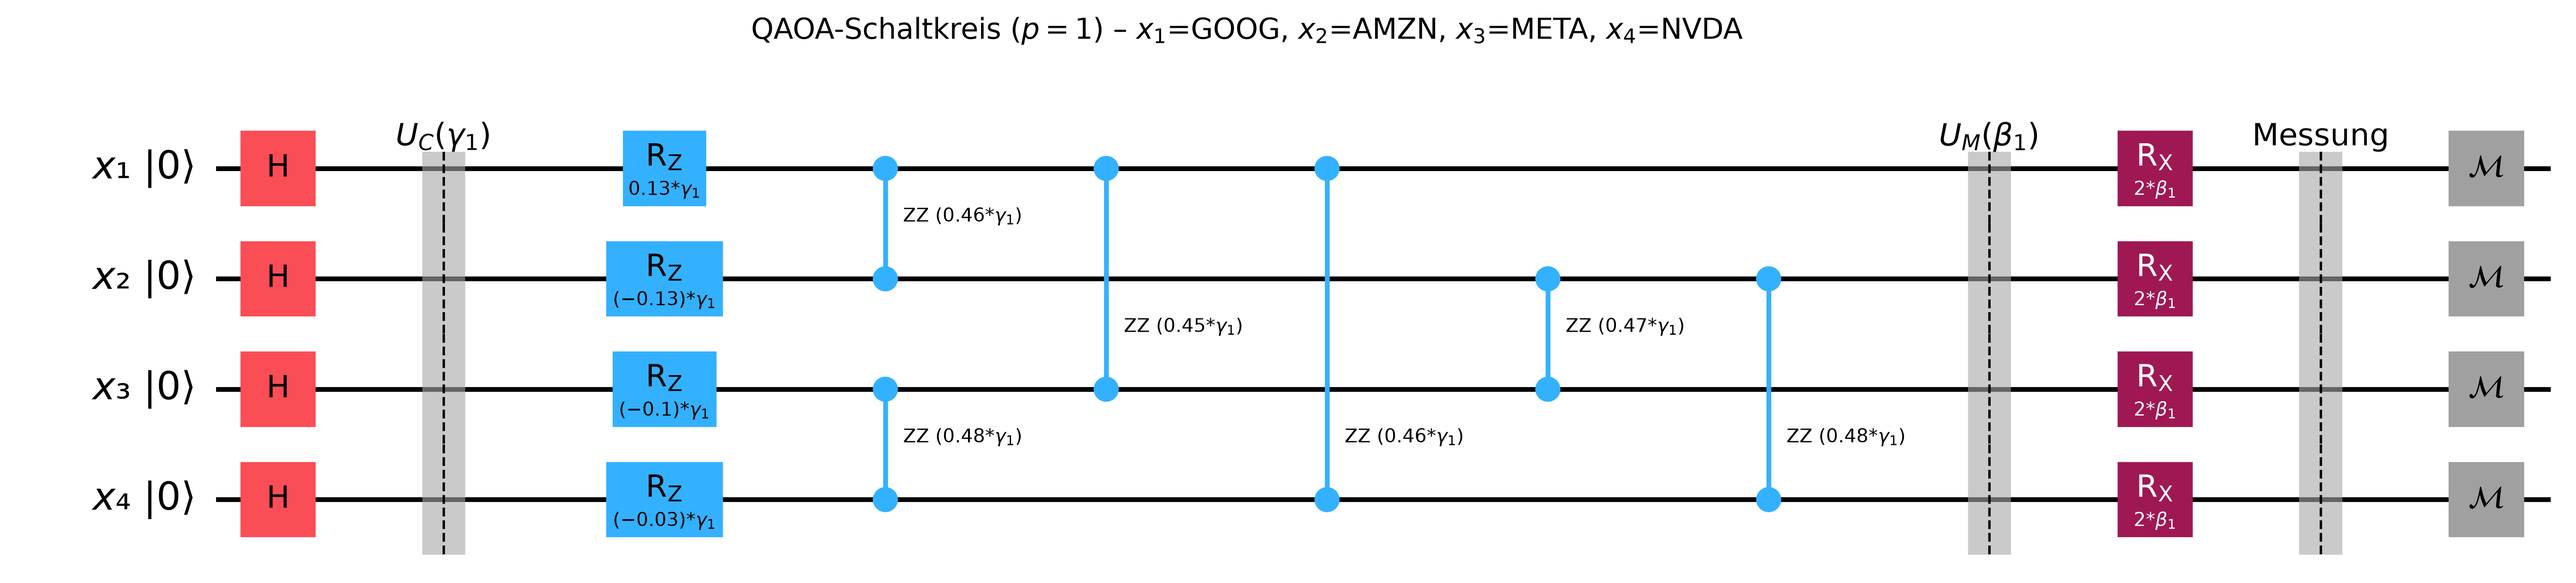
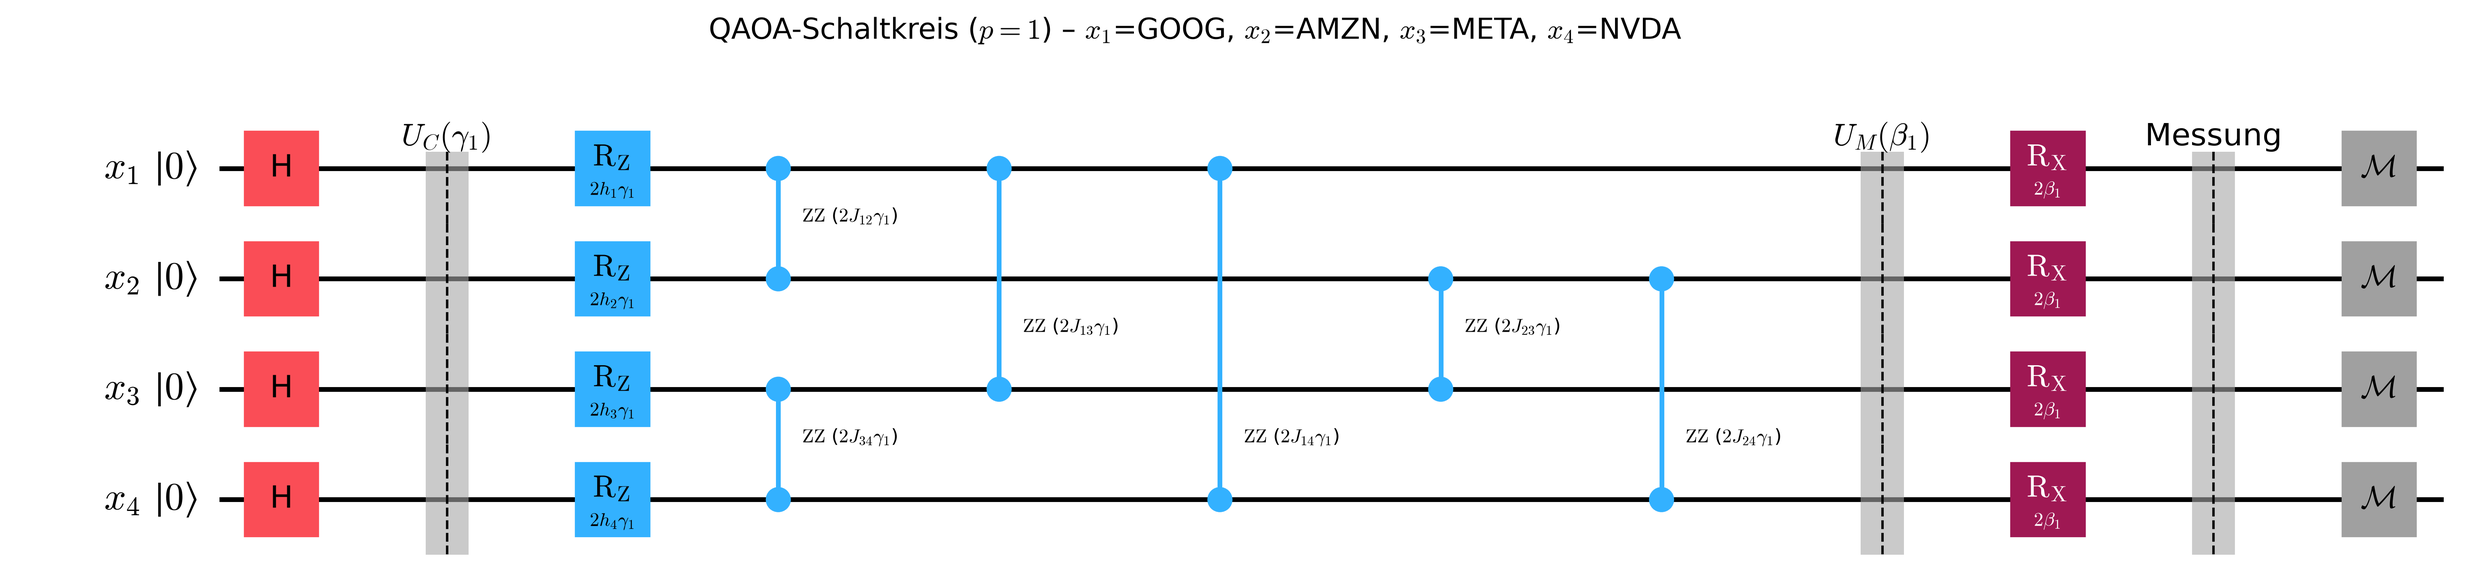
feat: enhance drawing_circuit with symbolic parameter and improve plot_circuit labels

diff --git a/src/02_portfolio_optimization.py b/src/02_portfolio_optimization.py
@@ -2,6 +2,7 @@
 
 import itertools
 import json
+import re
 import sys
 from dataclasses import asdict, dataclass
 from functools import cached_property
@@ -184,18 +185,19 @@ def sample(qaoa: QAOA, params, pf: Portfolio,
 
 
 def drawing_circuit(h_c: SparsePauliOp, reps: int,
-                    decimals: int | None = 2) -> QuantumCircuit:
+                    symbolic: bool = True) -> QuantumCircuit:
     """Gate-level QAOA circuit with labeled layers, for display only.
 
-    Same gates as qaoa_ansatz: Z_i -> Rz(2c·γ), Z_iZ_j -> Rzz(2c·γ), mixer Rx(2β).
-    Coefficients are rounded to `decimals` (None = exact, for checking).
+    Same gates as qaoa_ansatz for H_C = Σ h_i Z_i + Σ J_ij Z_i Z_j:
+    Z_i -> Rz(2h_i·γ), Z_iZ_j -> Rzz(2J_ij·γ), mixer Rx(2β).
+    symbolic=True labels the angles with h_i, J_ij (no numbers);
+    symbolic=False uses the exact coefficients (for checking against qaoa_ansatz).
     Measurements are drawn as "M" boxes without classical bits, so the drawer
     places them in one column (real measurements are always staggered).
     The cost terms are all diagonal and commute, so they are reordered to make
     the figure narrower: all Rz first, then the ZZ gates packed into as few
     columns as possible (e.g. ZZ(0,1) and ZZ(2,3) side by side).
     """
-    sub = str.maketrans("0123456789", "₀₁₂₃₄₅₆₇₈₉")
     terms = [(np.flatnonzero(pauli.z).tolist(), coeff)
              for pauli, coeff in zip(h_c.paulis, h_c.coeffs.real, strict=True)]
     singles = [t for t in terms if len(t[0]) == 1]
@@ -211,26 +213,34 @@ def drawing_circuit(h_c: SparsePauliOp, reps: int,
         col.append(t)
     ordered = singles + [t for col in columns for t in col]
 
-    regs = [QuantumRegister(1, f"x{i + 1}".translate(sub)) for i in range(h_c.num_qubits)]
+    # ASCII names; plot_circuit turns them into $x_{i}$ (Qiskit escapes "_")
+    regs = [QuantumRegister(1, f"x{i + 1}") for i in range(h_c.num_qubits)]
     qc = QuantumCircuit(*regs)
     # Each barrier label marks the block that follows it;
     # the initial state is shown by the |0⟩ wire labels
     qc.h(range(qc.num_qubits))
+    sep = "" if qc.num_qubits < 10 else ","  # J_12, or J_{10,11} for many qubits
     for k in range(1, reps + 1):
         # $...$ is rendered by matplotlib mathtext; braces only for k >= 10,
         # since Qiskit truncates barrier labels longer than 16 characters
-        i = str(k) if k < 10 else f"{{{k}}}"
-        gamma = Parameter(rf"$\gamma_{i}$")
-        beta = Parameter(rf"$\beta_{i}$")
-        qc.barrier(label=rf"$U_C(\gamma_{i})$")
+        ks = str(k) if k < 10 else f"{{{k}}}"
+        gamma = Parameter(rf"$\gamma_{ks}$")
+        beta = Parameter(rf"$\beta_{ks}$")
+        qc.barrier(label=rf"$U_C(\gamma_{ks})$")
         for qubits, coeff in ordered:
-            factor = 2 * coeff if decimals is None else round(2 * coeff, decimals)
-            if len(qubits) == 1:
-                qc.rz(factor * gamma, qubits[0])
+            if symbolic:
+                idx = sep.join(str(q + 1) for q in qubits)
+                name = "h" if len(qubits) == 1 else "J"
+                angle = Parameter(rf"$2{name}_{{{idx}}}\gamma_{ks}$")
             else:
-                qc.rzz(factor * gamma, *qubits)
-        qc.barrier(label=rf"$U_M(\beta_{i})$")
-        qc.rx(2 * beta, range(qc.num_qubits))
+                angle = 2 * coeff * gamma
+            if len(qubits) == 1:
+                qc.rz(angle, qubits[0])
+            else:
+                qc.rzz(angle, *qubits)
+        qc.barrier(label=rf"$U_M(\beta_{ks})$")
+        mixer_angle = Parameter(rf"$2\beta_{ks}$") if symbolic else 2 * beta
+        qc.rx(mixer_angle, range(qc.num_qubits))
     qc.barrier(label="Messung")
     for q in range(qc.num_qubits):
         qc.append(Instruction("M", 1, 0, [], label=r"$\mathcal{M}$"), [q])
@@ -343,12 +353,21 @@ def plot_distribution(pf: Portfolio, prob: dict, cfg: Config, path: Path) -> Non
 def plot_circuit(h_c: SparsePauliOp, reps: int, ticker, path: Path) -> None:
     """Gate-level QAOA circuit: |0⟩, H, cost layer, mixer, measurement."""
     style = {"name": "iqp", "displaycolor": {"M": ("#A0A0A0", "#000000")}}
-    fig = drawing_circuit(h_c, reps).draw("mpl", initial_state=True, fold=-1,
-                                          style=style)
-    mapping = ", ".join(rf"$x_{{{i}}}$={t}"
-                        for i, t in enumerate(ticker, start=1))
-    fig.suptitle(rf"QAOA-Schaltkreis ($p = {reps}$) – {mapping}")
-    fig.savefig(path, dpi=400, bbox_inches="tight")
+    # Computer Modern (LaTeX font) for all $...$ math
+    with plt.rc_context({"mathtext.fontset": "cm"}):
+        fig = drawing_circuit(h_c, reps).draw("mpl", initial_state=True,
+                                              fold=-1, style=style)
+        # Qiskit labels the wires "${x1}$ $|0\rangle$" -> "$x_{1}$ $∣0⟩$".
+        # mathtext's \rangle is too big next to "|"; the Unicode glyphs
+        # ∣ (U+2223) and ⟩ (U+27E9) have equal height in Computer Modern,
+        # like \left|0\right\rangle in LaTeX
+        for text in fig.axes[0].texts:
+            label = re.sub(r"^\$\{x(\d+)\}\$", r"$x_{\1}$", text.get_text())
+            text.set_text(label.replace(r"$|0\rangle$", "$∣0⟩$"))
+        mapping = ", ".join(rf"$x_{{{i}}}$={t}"
+                            for i, t in enumerate(ticker, start=1))
+        fig.suptitle(rf"QAOA-Schaltkreis ($p = {reps}$) – {mapping}")
+        fig.savefig(path, dpi=400, bbox_inches="tight")
     plt.close(fig)
 
 
